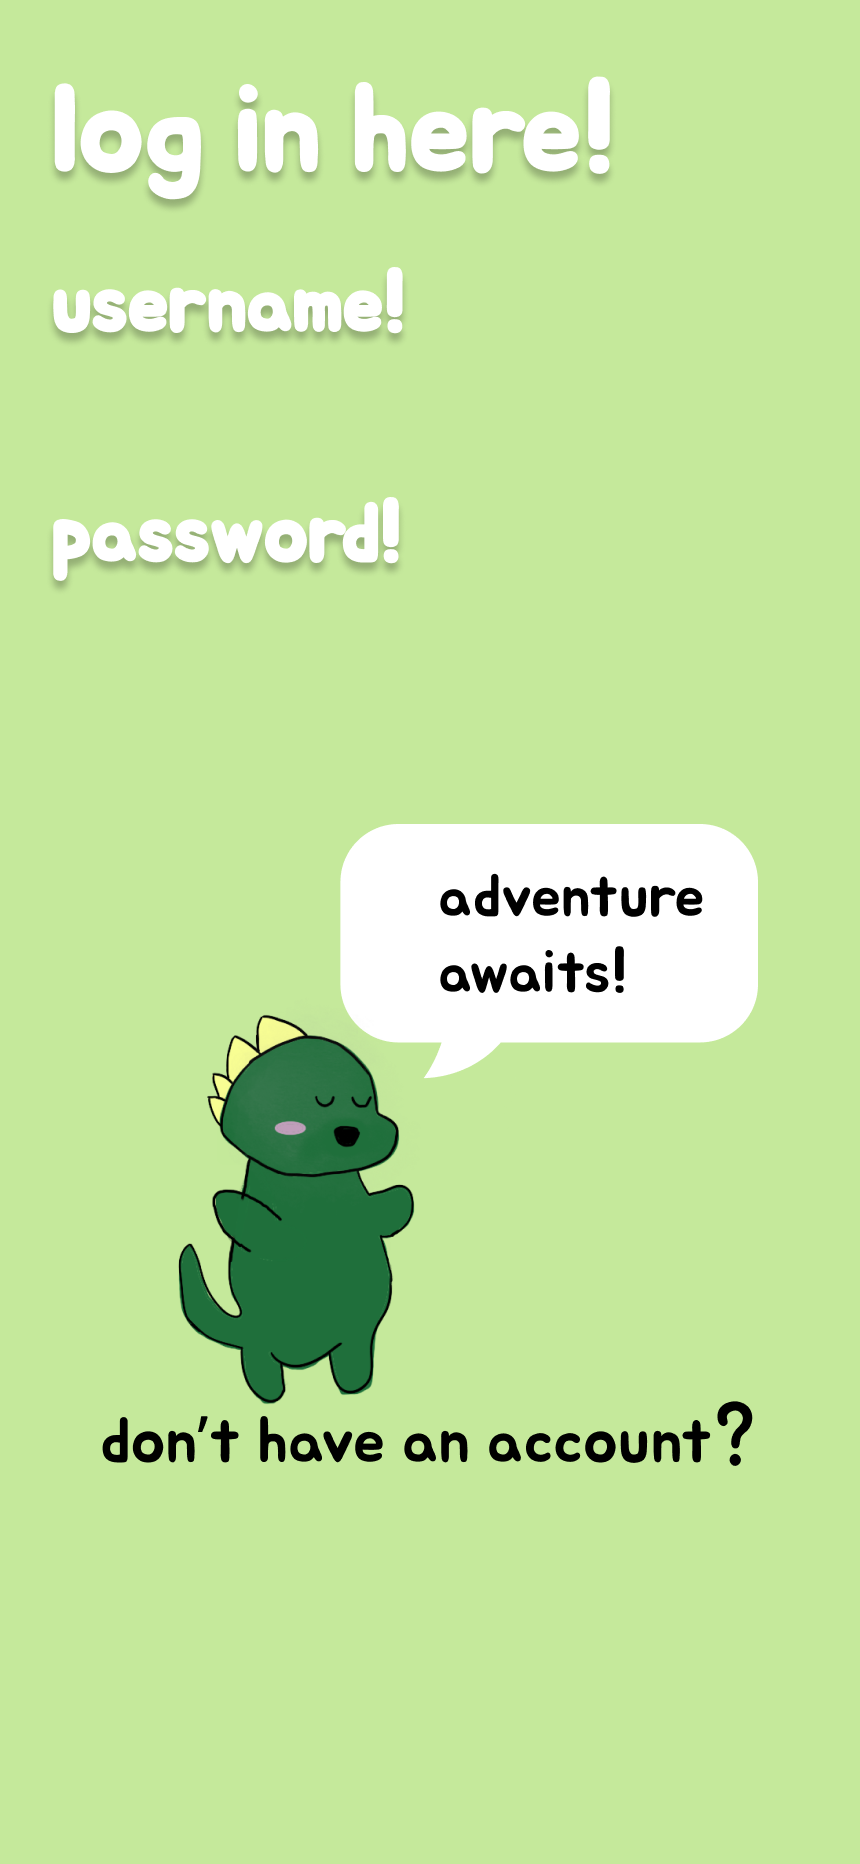
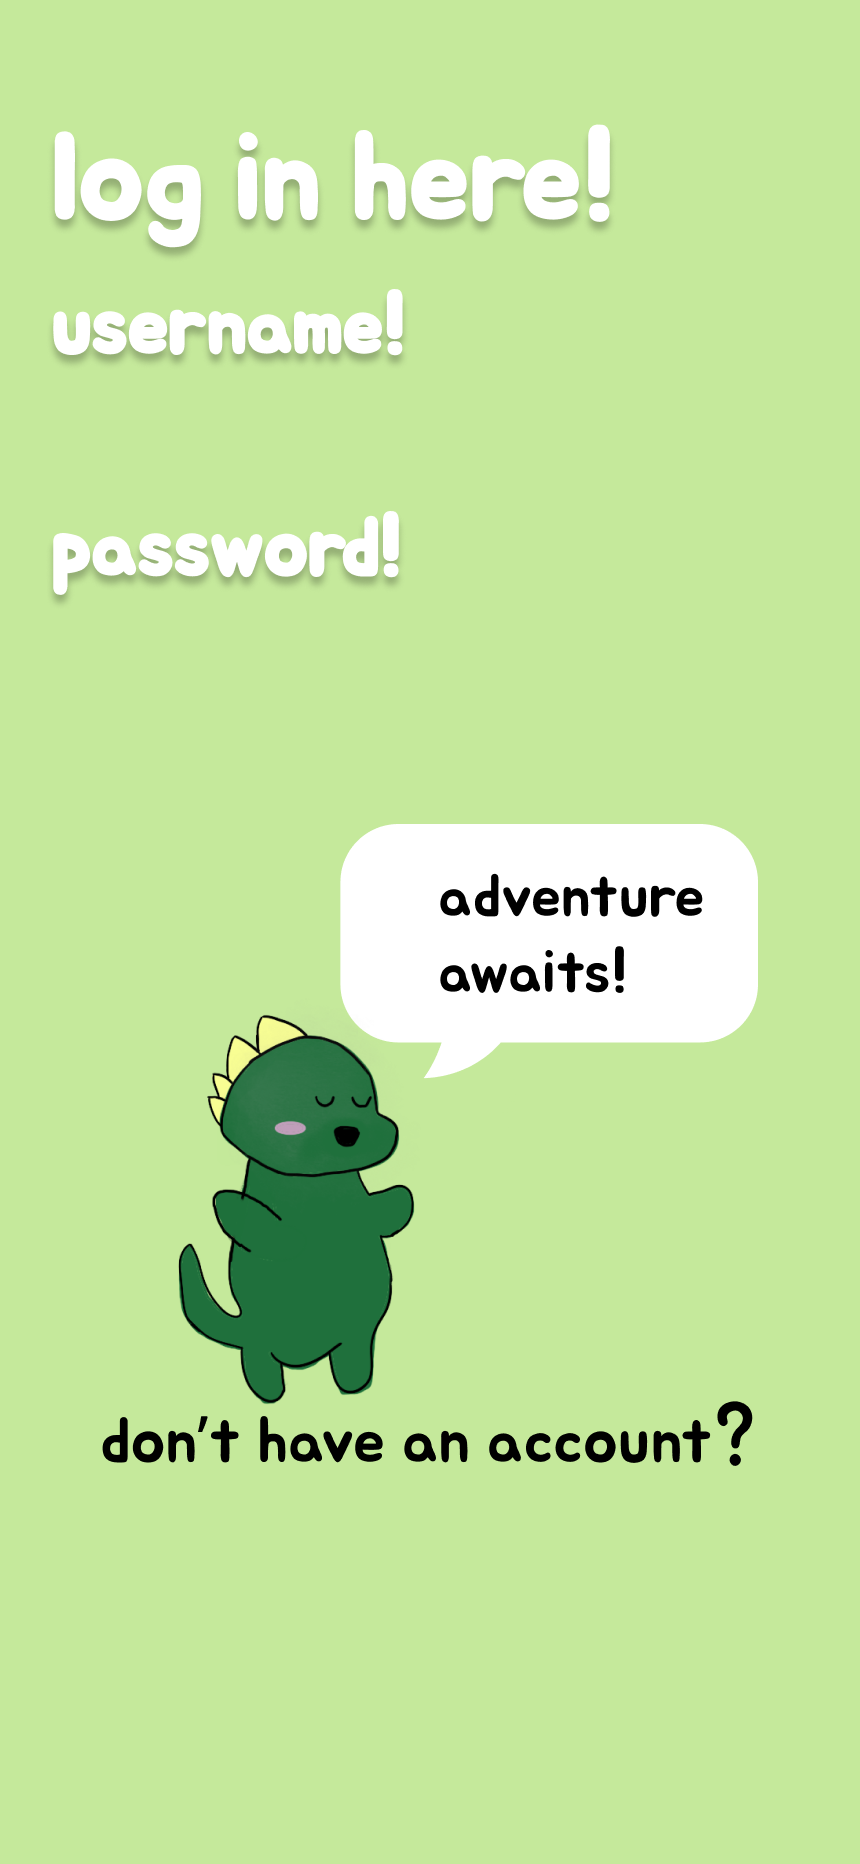
adjust styling for login and signup

Changed region(s): [[0.0605, 0.0311, 0.7256, 0.2178], [0.0605, 0.2489, 0.4837, 0.3423]]

diff --git a/app/Signup.js b/app/Signup.js
@@ -10,7 +10,6 @@ export default function App({navigation}) {
     const { login, authToken } = useContext(AuthContext);
     const [username, setUsername] = useState('');
     const [password, setPassword] = useState('');
-    const [email, setEmail] = useState('');
 
     const handleSignup = () => {
         console.log("inhandleSignup");
@@ -57,12 +56,6 @@ export default function App({navigation}) {
                 value={password}
                 onChangeText={setPassword}
                 />
-                <TextInput
-                style={styles.useremail}
-                placeholder="Email"
-                value={email}
-                onChangeText={setEmail}
-                />
                 <TouchableOpacity onPress={handleSignup}>
                     <Image
                         source={require('./assets/createbtn.png')}
@@ -76,49 +69,35 @@ export default function App({navigation}) {
 }
 
 const styles = StyleSheet.create({
-    container: {
-      flex: 1,
-      // justifyContent: 'center',
-    //   alignItems: 'center',
-      height: 780,
-      width: 375
-    },
-    userinput: {
-        height: 50,
-        borderColor: 'gray',
-        borderWidth: 1,
-        marginTop: 145,
-        marginLeft: 22,
-        paddingHorizontal: 10,
-        backgroundColor: "#FFFFFF",
-        borderRadius: 10, 
-        width: '80%', // Adjust width to fit screen
-      },
-      userpass: {
-        height: 50,
-        borderColor: 'gray',
-        borderWidth: 1,
-        marginTop: 47,
-        marginLeft: 22,
-        paddingHorizontal: 10,
-        backgroundColor: "#FFFFFF",
-        borderRadius: 10,
-        width: '80%', // Adjust width to fit screen
-      },
-      useremail: {
-        height: 50,
-        borderColor: 'gray',
-        borderWidth: 1,
-        marginTop: 47,
-        marginLeft: 22,
-        paddingHorizontal: 10,
-        backgroundColor: "#FFFFFF",
-        borderRadius: 10,
-        width: '80%', // Adjust width to fit screen
-      },
-      signup: {
-        width: 220, height:50,
-        marginTop: 30,
-        marginLeft: 22,
-      }
+  container: {
+    flex: 1,
+  },
+  userinput: {
+    height: 50,
+    borderColor: 'gray',
+    borderWidth: 1,
+    marginTop: '44%',
+    marginLeft: 25,
+    paddingHorizontal: 10,
+    backgroundColor: "#FFFFFF",
+    borderRadius: 10, 
+    width: '80%', // Adjust width to fit screen
+  },
+  userpass: {
+    height: 50,
+    borderColor: 'gray',
+    borderWidth: 1,
+    marginTop: '15%',
+    marginLeft: 25,
+    paddingHorizontal: 10,
+    backgroundColor: "#FFFFFF",
+    borderRadius: 10,
+    width: '80%', // Adjust width to fit screen
+  },
+  signup: {
+    width: '42%',
+    height: '20%',
+    marginTop: '4%',
+    marginLeft: '6%',
+  }
 });

diff --git a/app/LoginScreen.js b/app/LoginScreen.js
@@ -72,10 +72,7 @@ export default function LoginScreen({ navigation }) {
         </TouchableOpacity>
         </View>
 
-        {/* <Button title="Go to Camera" onPress={() => navigation.navigate('camera')} /> */}
-        <Button title="Go to Home Page" onPress={() => navigation.navigate('home')} />
-        {/* <Button title="Go to Community" onPress={() => navigation.navigate('community')} /> */}
-      </ImageBackground>
+        </ImageBackground>
     </View>
   );
 }
@@ -83,20 +80,12 @@ export default function LoginScreen({ navigation }) {
 const styles = StyleSheet.create({
   container: {
     flex: 1,
-    // justifyContent: 'center',
-    // alignItems: 'center',
-    height: 780,
-    width: 375
-  },
-  title: {
-    fontSize: 24,
-    marginBottom: 20,
   },
   userinput: {
     height: 50,
     borderColor: 'gray',
     borderWidth: 1,
-    marginTop: 135,
+    marginTop: '44%',
     marginLeft: 25,
     paddingHorizontal: 10,
     backgroundColor: "#FFFFFF",
@@ -107,7 +96,7 @@ const styles = StyleSheet.create({
     height: 50,
     borderColor: 'gray',
     borderWidth: 1,
-    marginTop: 55,
+    marginTop: '15%',
     marginLeft: 25,
     paddingHorizontal: 10,
     backgroundColor: "#FFFFFF",
@@ -119,12 +108,14 @@ const styles = StyleSheet.create({
     alignItems: 'center',
   },
   login: {
-    width: 200, height:50,
-    marginTop: 3,
+    width: 160, 
+    height: 40,
+    marginTop: '2%',
     alignItems: 'center',
   },
   signup: {
-    width: 270, height:50,
-    marginTop: 290
+    width: 270,
+    height: 50,
+    marginTop: '80%',
   }
 });

diff --git a/app/App.js b/app/App.js
@@ -47,7 +47,11 @@ export default function App() {
     <GestureHandlerRootView style={{ flex: 1 }}>
       <AuthProvider>
         <NavigationContainer>
-          <Stack.Navigator>
+        <Stack.Navigator
+          screenOptions={{
+            headerShown: false
+          }}
+        >
             {/* <Stack.Screen
               name="nature quest"
               component={Signup}
